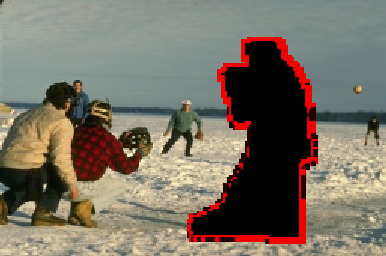
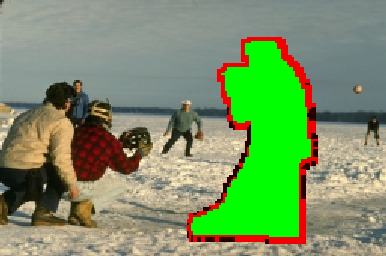
Creation confusion set initial et display mieux

Changed region(s): [[0.4974, 0.1562, 0.8083, 0.9375]]

diff --git a/main.cpp b/main.cpp
@@ -93,9 +93,13 @@ int main(int argc, char *argv[]) {
         int size=priorities[i].size();
         for (int xp=x-patchsize/2;xp<=x+patchsize/2;xp++){
             for (int yp=y-patchsize/2;yp<=y+patchsize/2;yp++){
+                if (size==0){imageInput(xp,yp,0)=0;
+                            imageInput(xp,yp,1)=255;
+                            imageInput(xp,yp,2)=0;}
+                else{
                 imageInput(xp,yp,0)=255/Lmax*size;
                 imageInput(xp,yp,1)=0;
-                imageInput(xp,yp,2)=0;
+                imageInput(xp,yp,2)=0;}
             }
         }
 
